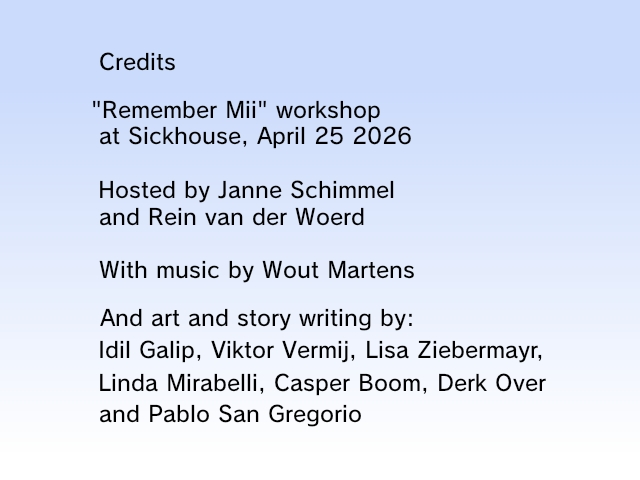
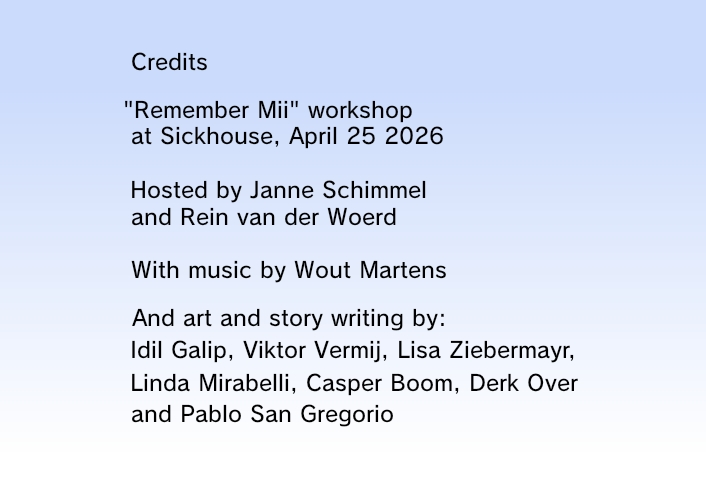
credits and memory issues

diff --git a/source/scene_intro.hpp b/source/scene_intro.hpp
@@ -62,10 +62,9 @@ Scene scene_intro() {
     int width = rmode->viWidth;
     int height = rmode->viHeight;
 
-    GRRLIB_texImg* frame;
 
     int num_frames = 39;
-    const uint8_t (*frames[39])[] = {
+    const uint8_t (*frames[40])[] = {
         &intro_1_jpg,
         &intro_2_jpg,
         &intro_3_jpg,
@@ -104,6 +103,7 @@ Scene scene_intro() {
         &intro_36_jpg,
         &intro_37_jpg,
         &intro_38_jpg,
+        &intro_39_jpg,
         &intro_39_jpg
     };
 
@@ -113,6 +113,9 @@ Scene scene_intro() {
     float slide_opacity = 0;
 
     bool fading_out = false;
+
+    GRRLIB_texImg* frame = GRRLIB_LoadTexture(*frames[slide_i]);
+
 
 
     while (true) {
@@ -140,9 +143,7 @@ Scene scene_intro() {
             slide_opacity = lrp(slide_opacity, 0, .05);
 
             if (slide_opacity < .1) {
-                loading::draw();
-                GRRLIB_Render();
-
+                
                 // for (int i = 0; i < 19; i++) {
                 // }
                 

diff --git a/source/scene_golfmurder.hpp b/source/scene_golfmurder.hpp
@@ -43,9 +43,14 @@ Scene scene_golfmurder() {
         if (transition_down) {
             slide_opacity = lrp(slide_opacity, 0, slide_speed);
             if (slide_opacity < 30) {
+                GRRLIB_FreeTexture(frame);
+
                 transition_down = false;
+
                 slide_i = slide_i + 1;
-                // GRRLIB_FreeTexture(frame);
+
+                frame = GRRLIB_LoadTexture(*frames[slide_i]);
+
 
                 // Dialogue and choice logic comes here
                 // -----
@@ -53,8 +58,6 @@ Scene scene_golfmurder() {
                 if (slide_i == num_frames) {
                     return Scene::CleaningMachine;
                 }
-
-                frame = GRRLIB_LoadTexture(*frames[slide_i]);
             }
         } else {
             slide_opacity = lrp(slide_opacity, 255, slide_speed);

diff --git a/source/scene_lettertomunincipality.hpp b/source/scene_lettertomunincipality.hpp
@@ -19,7 +19,6 @@
 Scene scene_lettertomunincipality() {    
     GRRLIB_texImg* writing_img = GRRLIB_LoadTexture(letter_writing_scene_jpg);;
     GRRLIB_texImg* letter_img =  GRRLIB_LoadTexture(the_letter_itself_jpg);;
-    GRRLIB_texImg* continue_img = GRRLIB_LoadTexturePNG(continue_png);
 
     int width = rmode->viWidth;
     int height = rmode->viHeight;
@@ -108,7 +107,7 @@ Scene scene_lettertomunincipality() {
             if (continue_hover && mote.a_pressed) {
                 if (viewed_letter) {
                     // Next scene
-                    // loading::draw();
+                    // 
                     GRRLIB_Render();
                     outro = true;
                     continue_button::choose();

diff --git a/source/scene_hotel.hpp b/source/scene_hotel.hpp
@@ -196,8 +196,10 @@ Scene scene_hotel() {
                         return Scene::Ending;
                     }
                     
-                    
                     dialogue_step++;
+
+                    GRRLIB_FreeTexture(text_balloon);
+
 
                     // Next step in the dialogue
                     if (dialogue_step == 1) { // "ID?"

diff --git a/source/scene_golfclass.hpp b/source/scene_golfclass.hpp
@@ -57,6 +57,7 @@ Scene scene_golfclass() {
                 transition_down = false;
                 slide_i++;
 
+                GRRLIB_FreeTexture(frame);
                 
                 if (slide_i >= num_frames) {
                     return Scene::Bowling;

diff --git a/source/main.cpp b/source/main.cpp
@@ -67,7 +67,7 @@ int main() {
   ASND_Init();
   MP3Player_Init();
 
-  Scene current_scene = Scene::Hotel;
+  Scene current_scene = Scene::Title;
   Scene next_scene;
   cursor::load();
 
